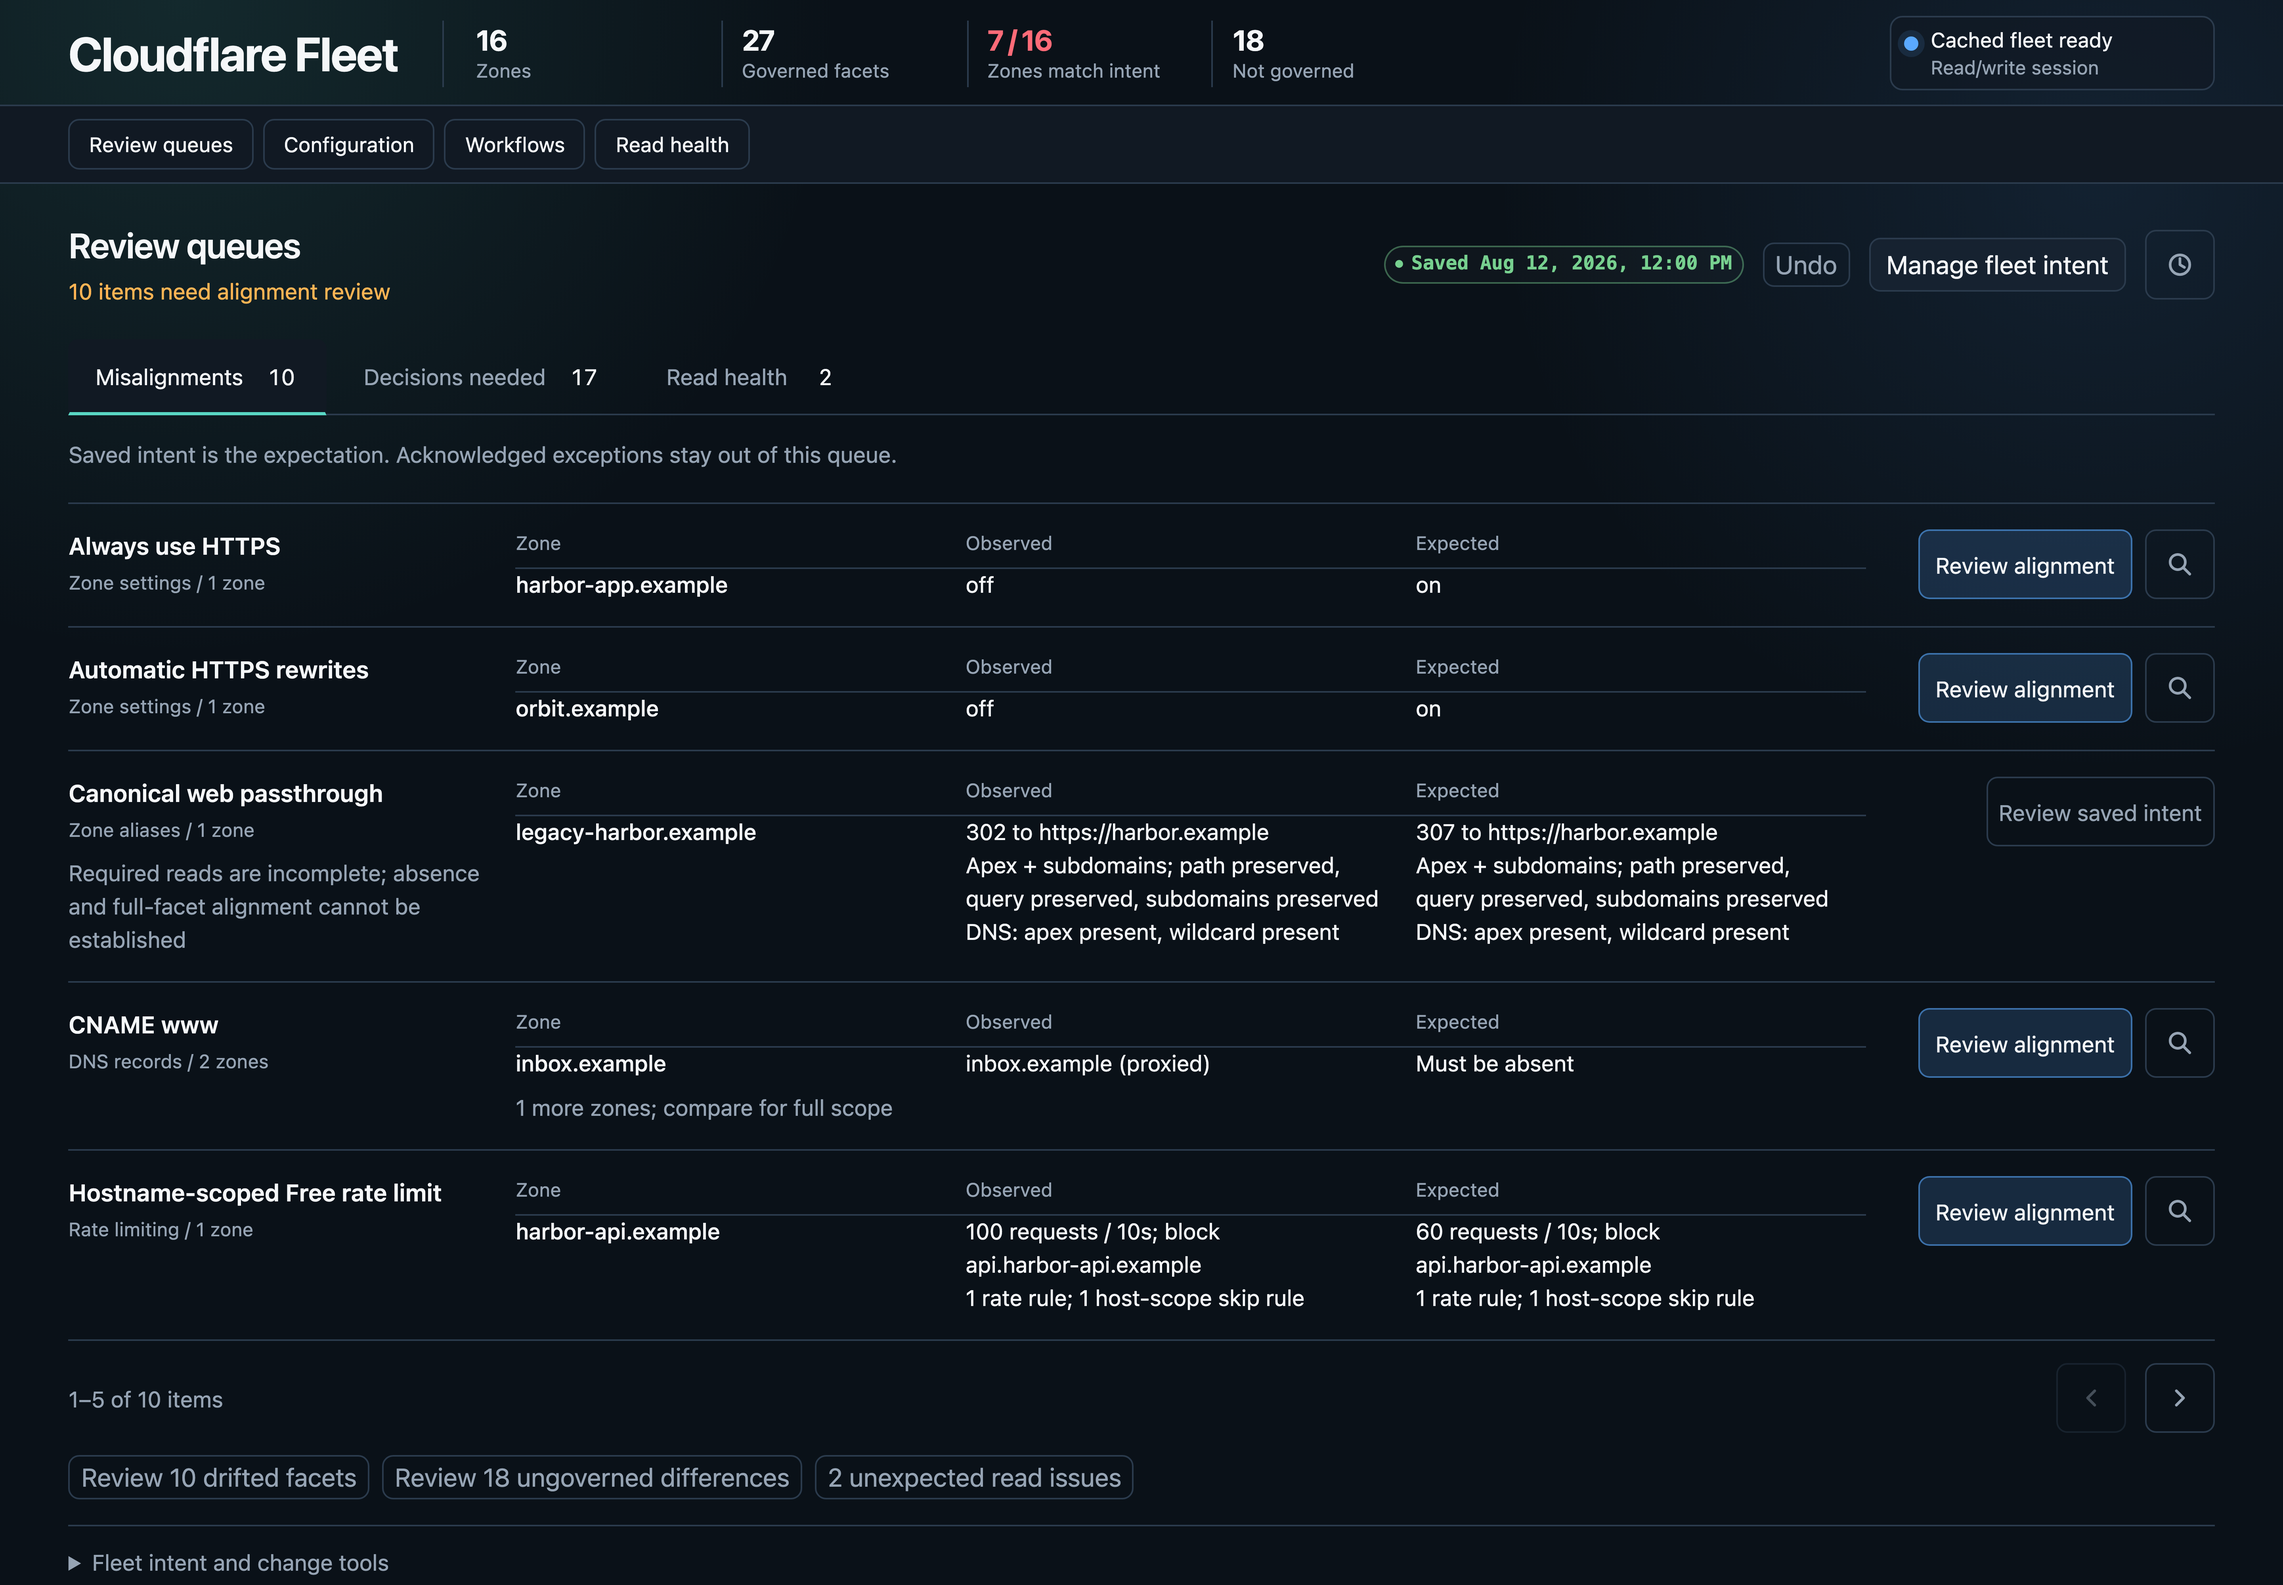
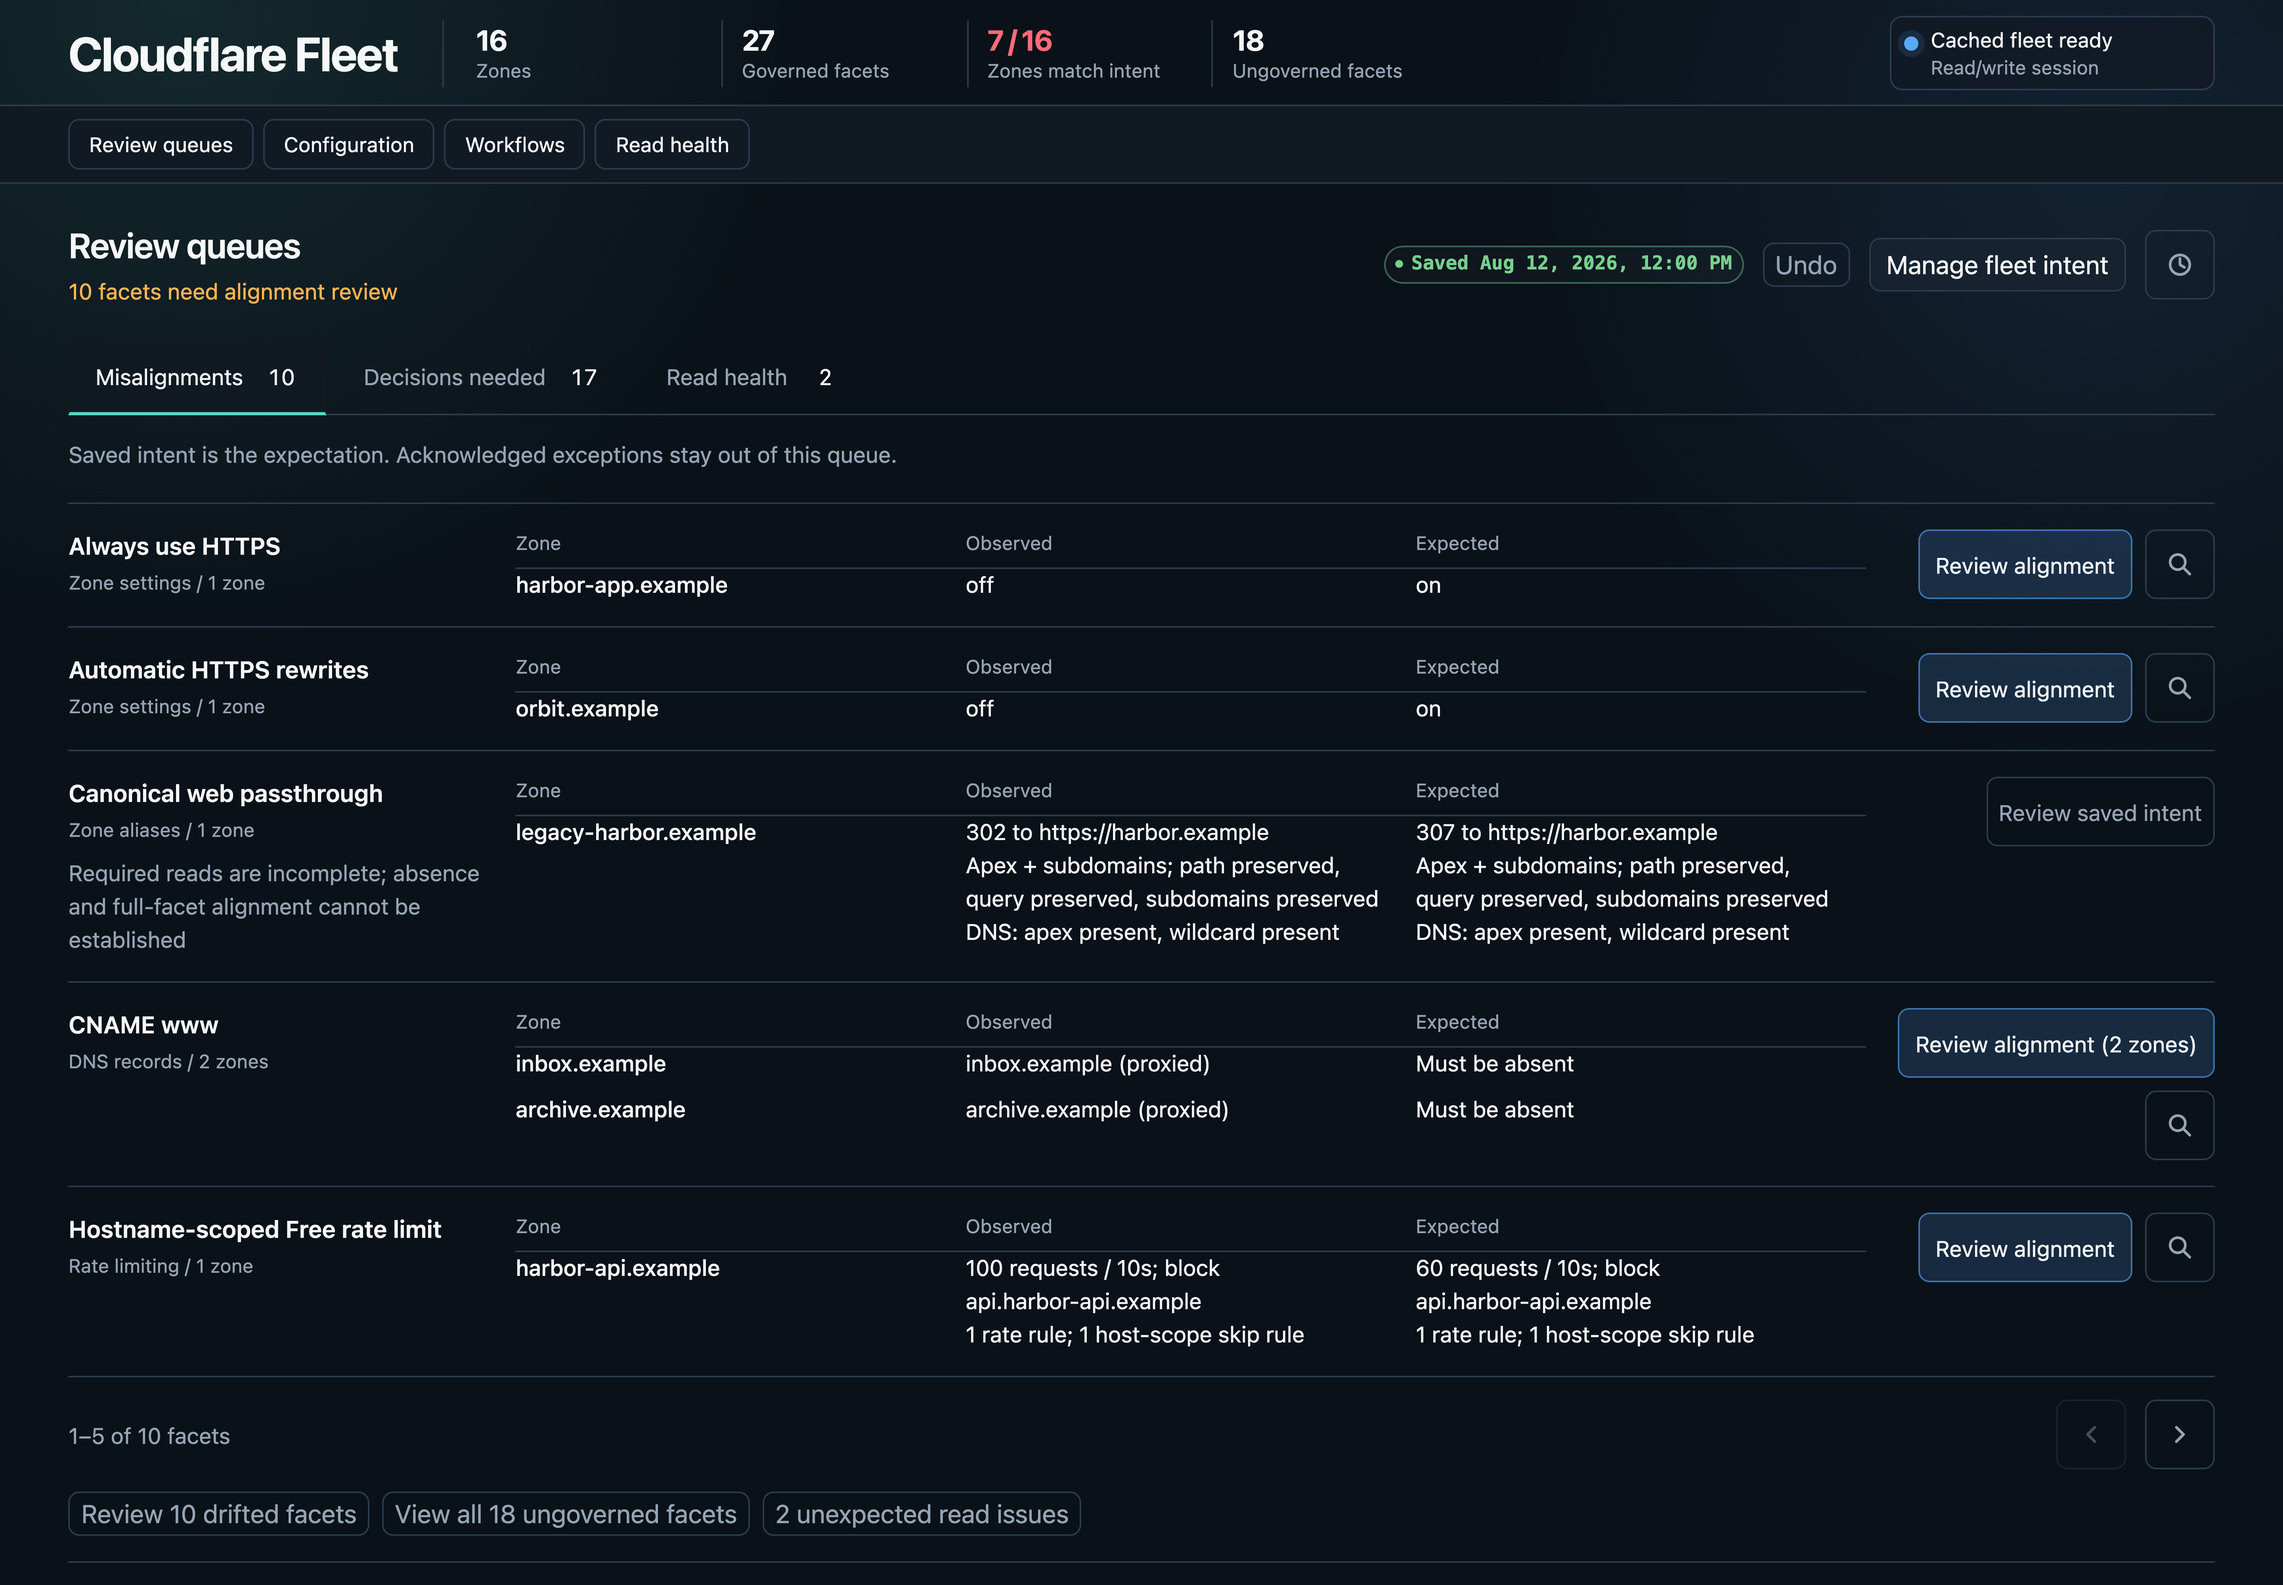
fix(ui): restore queue focus and clarify review evidence

diff --git a/styles.css b/styles.css
@@ -8337,6 +8337,7 @@ dialog details > summary {
 }
 
 .queue-item-scope,
+.queue-decision-intent,
 .queue-item-reason,
 .queue-action-reason,
 .queue-sampling-note {
@@ -8350,6 +8351,10 @@ dialog details > summary {
 .queue-item-scope {
   margin-top: 4px;
   font-size: 12px;
+}
+
+.queue-decision-intent {
+  margin-top: 4px;
 }
 
 .queue-evidence-table {
@@ -8649,6 +8654,19 @@ textarea {
     margin-bottom: 0;
   }
 
+  [data-queue-kind="decision"] .queue-evidence-table tbody tr {
+    grid-template-columns: minmax(0, 1fr);
+    gap: 4px;
+  }
+
+  .review-queue-item[data-queue-kind="decision"] {
+    gap: 8px;
+  }
+
+  [data-queue-kind="decision"] .queue-evidence-table td::before {
+    display: none;
+  }
+
   .queue-evidence-table .queue-zone {
     grid-column: 1 / -1;
     padding: 0;
@@ -8731,7 +8749,7 @@ textarea {
     padding: 10px 12px;
   }
 
-  .queue-context {
+  .queue-context:not([data-queue="decisions"]) {
     display: none;
   }
 

diff --git a/index.html b/index.html
@@ -39,7 +39,7 @@
         <div class="summary-card" role="listitem"><strong id="zone-count">0</strong><span>Zones</span></div>
         <div class="summary-card" role="listitem"><strong id="intent-governed-count">0</strong><span>Governed facets</span></div>
         <div class="summary-card" role="listitem"><strong id="intent-zone-match-count">Waiting</strong><span>Zones match intent</span></div>
-        <div class="summary-card" role="listitem"><strong id="ungoverned-count">0</strong><span>Not governed</span></div>
+        <div class="summary-card" role="listitem"><strong id="ungoverned-count">0</strong><span>Ungoverned facets</span></div>
       </div>
       <progress class="load-progress" id="load-progress" max="100" value="0" aria-label="Fleet loading progress" hidden></progress>
     </header>

diff --git a/README.md b/README.md
@@ -90,9 +90,9 @@ Use `cloudflare-fleet dashboard --fresh` to bypass the inventory cache for one l
 
 The dashboard starts with outstanding work. Misalignments are saved expectations that need alignment review, including unresolved intent that needs evidence or policy review. Decisions needed contains observed differences without saved intent. Read health keeps unexpected read issues separate from configuration differences. Acknowledged exact exceptions stay out of the misalignment queue.
 
-Each item pairs representative zones with their observed values and applicable expectations. Readable setting names and compact summaries expose DNS destinations, redirects, and rate thresholds; comparison retains exact API identifiers and complete values. Familiar secondary actions use icons with accessible names and hover or keyboard-focus tooltips. Saving intent can create or clear review work without changing Cloudflare; applying a correction still requires the existing fresh plan, confirmation, durable activity, and authoritative verification. An empty queue establishes satisfaction only within configured, successfully checked intent. Undefined expectations and read gaps never become an unqualified success message.
+Each item pairs representative zones with their observed values and applicable expectations. Small affected scopes name every zone, and multi-zone alignment actions show their full target count. Readable setting names and compact summaries expose DNS destinations, redirects, and rate thresholds; comparison retains exact API identifiers, match expressions, and complete values. Decisions show the absence of saved intent once, alongside observed evidence. Queue counts use facets rather than mismatched zone cells, and the decision context explains which ungoverned facets still need reads. Familiar secondary actions use icons with accessible names and hover or keyboard-focus tooltips. Closing alignment review returns keyboard focus to its queue action; a verified correction that removes the item returns focus to the queue heading. Saving intent can create or clear review work without changing Cloudflare; applying a correction still requires the existing fresh plan, confirmation, durable activity, and authoritative verification. An empty queue establishes satisfaction only within configured, successfully checked intent. Undefined expectations and read gaps never become an unqualified success message.
 
-The MCP `list_review_queue` tool uses the same projection. Select `misalignments`, `decisions`, or `reads`; `limit` defaults to 10 and accepts at most 50 items. The response includes total items, representative evidence, coverage qualifications, the inventory time, and a revision. Each governed observed sample includes its own `expected` summary, materialized for that zone; samples distinguish observed values and applicable expectations. Summaries are bounded previews, not full comparisons or write plans. Continue with the same queue, an increased `offset`, and that revision; restart at offset 0 without a revision if the queue changes. Inventory is read across the configured account on each query; only the returned page is bounded. Use `inspect_facet` for complete focused evidence, existing alignment tools for corrections, and intent or adoption tools for governance decisions. Queue discovery performs no persistence or Cloudflare mutations.
+The MCP `list_review_queue` tool uses the same projection. Select `misalignments`, `decisions`, or `reads`; `limit` defaults to 10 and accepts at most 50 items. The response includes total items, representative evidence, coverage qualifications, the inventory time, and a revision. `summary.ungovernedFacets` equals `decisions` plus `decisionsAwaitingReads`; the latter lack enough readable evidence to enter the decision queue. Each governed observed sample includes its own `expected` summary, materialized for that zone; samples distinguish observed values and applicable expectations. Summaries are bounded previews, not full comparisons or write plans. Continue with the same queue, an increased `offset`, and that revision; restart at offset 0 without a revision if the queue changes. Inventory is read across the configured account on each query; only the returned page is bounded. Use `inspect_facet` for complete focused evidence, existing alignment tools for corrections, and intent or adoption tools for governance decisions. Queue discovery performs no persistence or Cloudflare mutations.
 
 ## Read-only audit
 

diff --git a/DESIGN.md b/DESIGN.md
@@ -259,7 +259,7 @@ Section links are compact bordered rectangles with mint hover and keyboard-focus
 
 ### Review Evidence
 
-A queue item keeps readable setting identity, affected zone, paired observation/expectation, and action in a stable reading order. Scope metadata recedes while the zone name remains prominent. Structured previews summarize fields, redirect destinations, and rate thresholds instead of exposing truncated JSON. Repeated generic mismatch explanations are omitted; unresolved evidence, policy review, and blocked reasons remain explicit. Empty states retain the evidence qualifier rather than presenting unconditional success. Pagination and secondary tools follow the list.
+A queue item keeps readable setting identity, affected zone, paired observation/expectation, and action in a stable reading order. Scope metadata recedes while the zone name remains prominent. Decision items state the absence of intent once and use a zone/observed table; phone observations span the full width. Structured previews summarize fields, redirect behavior, and rate thresholds instead of exposing raw expressions or truncated JSON. Compare retains complete evidence. Small affected scopes name every zone, and multi-zone review actions state their target count. Facet totals distinguish decisions with enough evidence from those awaiting reads. Repeated generic mismatch explanations are omitted; unresolved evidence, policy review, and blocked reasons remain explicit. Closing alignment review restores its surviving queue action, or the queue heading when a verified correction removes the item. Empty states retain the evidence qualifier rather than presenting unconditional success. Pagination and secondary tools follow the list.
 
 Comparison, history, and pagination use familiar outline icons with accessible names, hover/focus tooltips, Escape dismissal, and minimum (`44px`) targets. Guarded alignment review and unfamiliar intent actions retain visible text. Complete values and exact API keys remain accessible through comparison and saved-intent flows.
 
